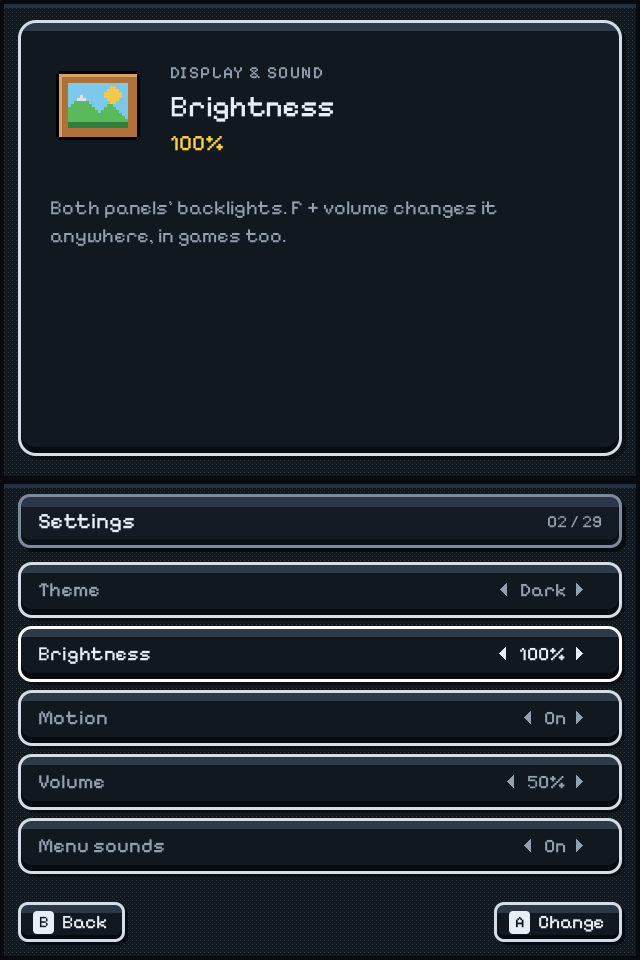
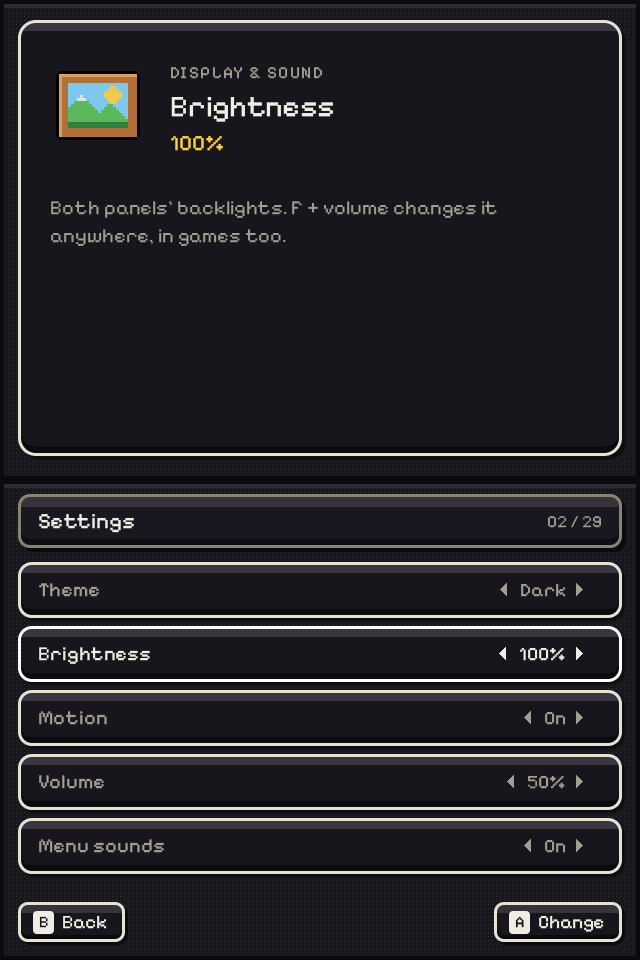
The console the cartridge goes into is the back of a DSi-style clamshell, as pixel art
On the ready screen and in the boot animation the cartridge went into a plain rounded box. tools/make-console.py
draws the lower half's back in the theme's colours, dark and light, at both panel scales: the hinge barrel with
the camera lens in its middle knuckle, L and R at its ends, the card slot's plate (the UI's mouth and power light
sit in it where they were), the stylus in its slot, the wrist strap's eyelet, a screw in each corner. The engine
draws it under the insert animation (the box stays as the fallback), the splash's bottom layer has it; the
README's gif and the docs' screenshots are regenerated.

Claude-Session: https://claude.ai/code/session_018qUWsBXHrSiCKfAW17r6vD

diff --git a/tools/make-console.py b/tools/make-console.py
@@ -1,0 +1,96 @@
+#!/usr/bin/env python3
+"""The console the cartridge goes into, on the ready screen and in the boot animation: the back of a DSi-style
+clamshell's lower half, seen from behind, drawn as pixel art in the theme's colours. The hinge barrel runs along
+the top with the camera lens in its middle knuckle, L and R sit at its ends, the game card slot is centred in
+the body under the hinge (its mouth is drawn by the UI, at the same place as before: 180 x 28 at x 230, 16 px
+under the body's top), the stylus slot is on the right, the wrist strap's eyelet bottom-left, a screw in each
+lower corner, the power light's bezel to the right of the slot.
+
+Drawn at 1x on a 340 x 136 grid (CSS px of a 640 x 480 panel; the body's top is at y 26, under the hinge) and
+scaled by whole numbers: x2 is the source, then cut to 1x and 1.6x like the rest of the theme's pictures.
+
+    tools/make-console.py <out dir>        writes console-{dark,light}@{1x,1.6x}.png"""
+import sys
+from PIL import Image, ImageDraw
+
+W, H = 340, 136
+BODY_TOP = 26
+
+THEMES = {
+    # the theme's panel colours (RndsUI.cpp after tools/banana-palette.sh): band, body, low, edge, blackish, muted
+    "dark": dict(band=(0x3a, 0x35, 0x40), body=(0x17, 0x16, 0x1c), low=(0x0b, 0x0a, 0x0d), edge=(0xe8, 0xe2, 0xd3),
+                 black=(0x07, 0x06, 0x09), muted=(0xa3, 0x9d, 0x8e), hinge=(0x2a, 0x27, 0x2f), hingeHi=(0x4a, 0x45, 0x52),
+                 lens=(0x10, 0x18, 0x28), lensHi=(0x7e, 0xa8, 0xd0), button=(0x2e, 0x2b, 0x33), buttonHi=(0x4a, 0x45, 0x52)),
+    "light": dict(band=(0xff, 0xff, 0xff), body=(0xf6, 0xf2, 0xea), low=(0xd8, 0xd0, 0xc0), edge=(0x3a, 0x34, 0x2c),
+                  black=(0x2a, 0x26, 0x20), muted=(0x7a, 0x72, 0x62), hinge=(0xe3, 0xdc, 0xcd), hingeHi=(0xff, 0xff, 0xff),
+                  lens=(0x1d, 0x27, 0x3a), lensHi=(0x9e, 0xc8, 0xf0), button=(0xeb, 0xe5, 0xd9), buttonHi=(0xff, 0xff, 0xff)),
+}
+
+
+def rounded(d, box, r, fill, outline=None, width=0):
+    d.rounded_rectangle(box, radius=r, fill=fill, outline=outline, width=width)
+
+
+def console(t):
+    im = Image.new("RGBA", (W, H), (0, 0, 0, 0))
+    d = ImageDraw.Draw(im)
+    E, B = t["edge"], t["body"]
+
+    # the body: the lower shell's back, rounded, with the theme's band along the top and the low shadow at the bottom
+    rounded(d, (0, BODY_TOP, W - 1, H - 1), 18, B, E, 3)
+    d.rectangle((3, BODY_TOP + 3, W - 4, BODY_TOP + 10), fill=t["band"])
+    d.rectangle((3, H - 9, W - 4, H - 4), fill=t["low"])
+    # the band's corners follow the outline
+    for x in (3, W - 4):
+        d.point((x, BODY_TOP + 3), fill=E)
+
+    # the hinge barrel: three knuckles across the top, the middle one with the camera lens
+    hy0, hy1 = 0, BODY_TOP + 6
+    for (x0, x1) in ((28, 120), (134, 206), (220, 312)):
+        rounded(d, (x0, hy0, x1, hy1), 9, t["hinge"], E, 3)
+        d.rectangle((x0 + 3, hy0 + 3, x1 - 3, hy0 + 6), fill=t["hingeHi"])      # the light along the top
+        d.rectangle((x0 + 3, hy1 - 7, x1 - 3, hy1 - 3), fill=t["low"])          # the shadow under
+    # the lens, in the middle knuckle
+    cx, cy = 170, (hy0 + hy1) // 2
+    d.ellipse((cx - 9, cy - 9, cx + 9, cy + 9), fill=E)
+    d.ellipse((cx - 7, cy - 7, cx + 7, cy + 7), fill=t["lens"])
+    d.rectangle((cx - 4, cy - 5, cx - 2, cy - 3), fill=t["lensHi"])
+    # the microphone hole beside it
+    d.rectangle((cx + 16, cy - 1, cx + 17, cy), fill=E)
+
+    # L and R: the shoulder buttons at the hinge's ends, a little below it
+    for (x0, x1, label) in ((2, 26, "L"), (W - 27, W - 3, "R")):
+        rounded(d, (x0, 8, x1, BODY_TOP + 14), 6, t["button"], E, 3)
+        d.rectangle((x0 + 3, 11, x1 - 3, 13), fill=t["buttonHi"])
+
+    # the card slot's surround: a raised plate the UI's mouth sits in (the mouth itself: 180 x 28 at 230 - 150 = 80,
+    # 16 under the body's top), with the label's embossed line under it
+    sx0, sy0 = 80 - 8, BODY_TOP + 16 - 8
+    rounded(d, (sx0, sy0, sx0 + 180 + 16 - 1, sy0 + 28 + 16 - 1), 8, t["band"], E, 3)
+    d.rectangle((sx0 + 3, sy0 + 28 + 10, sx0 + 180 + 12, sy0 + 28 + 12), fill=t["low"])
+    # the power light's bezel (the UI paints the light itself at 446 - 150 = 296, mouth + 8)
+    d.rectangle((296 - 2, BODY_TOP + 16 + 8 - 2, 296 + 14 + 1, BODY_TOP + 16 + 8 + 10 + 1), fill=E)
+
+    # the stylus, in its slot on the right: a long thin rounded bar with a grip line
+    rounded(d, (W - 20, BODY_TOP + 44, W - 12, H - 24), 3, t["muted"], E, 2)
+    d.rectangle((W - 18, BODY_TOP + 56, W - 14, BODY_TOP + 57), fill=E)
+
+    # the wrist strap's eyelet, bottom-left; a screw in each lower corner
+    rounded(d, (14, H - 34, 34, H - 20), 4, t["low"], E, 2)
+    d.rectangle((20, H - 29, 28, H - 25), fill=t["black"])
+    for x in (W - 30, 44):
+        d.ellipse((x - 5, H - 27, x + 5, H - 17), fill=t["low"], outline=E, width=2)
+        d.rectangle((x - 2, H - 22, x + 2, H - 22), fill=E)
+
+    # the model line, embossed under the slot: three short dashes (no words)
+    for i in range(3):
+        d.rectangle((140 + i * 22, H - 46, 150 + i * 22, H - 45), fill=t["low"])
+    return im
+
+
+out = sys.argv[1]
+for name, t in THEMES.items():
+    im = console(t)
+    im.save(f"{out}/console-{name}@1x.png")
+    im.resize((int(W * 1.6), int(H * 1.6)), Image.NEAREST).save(f"{out}/console-{name}@1.6x.png")
+print("console pictures written to", out)

diff --git a/ui/rnds/RndsUI.cpp b/ui/rnds/RndsUI.cpp
@@ -208,6 +208,8 @@ namespace rnds
 		std::shared_ptr<Font> R, M;
 		std::shared_ptr<const Bitmap> shell;	// game_slot.png (shared with the cartridge jobs, not copied into each)
 		Bitmap logo, wifi, batt;	// pre-rendered at this scale
+		Bitmap consoleDark, consoleLight;	// Banana: the console the cartridge goes into (tools/make-console.py), per theme
+		bool lightTheme = false;
 
 		std::map<std::string, CacheEntry> cache;
 		uint64_t frame = 1;
@@ -257,7 +259,8 @@ namespace rnds
 
 		void setPalette(const std::string& variant)
 		{
-			P = variant == "light" ? lightPal() : darkPal();
+			lightTheme = variant == "light";
+			P = lightTheme ? lightPal() : darkPal();
 			INK = P.ink; MUTED = P.muted; LINE = P.line; EDGE = P.edge; NAVY = P.navy; RED = P.red;
 			SHADE40 = P.shade40; SHADE45 = P.shade45; SHADE35 = P.shade35; BLACKISH = P.blackish;
 		}
@@ -377,6 +380,8 @@ namespace rnds
 			logo = loadPng("logo" + sfx);
 			wifi = loadPng("wifi" + sfx);
 			batt = loadPng("battery" + sfx);
+			consoleDark = loadPng("console-dark" + sfx);
+			consoleLight = loadPng("console-light" + sfx);
 		}
 
 		// ---- boxes ----
@@ -1765,7 +1770,10 @@ namespace rnds
 			double t = now - launchT0;
 			// the console under it: a face with the slot's mouth and a power light
 			float mouthY = ry + 170, clipY = mouthY + 9;
-			drawBox(heroBox(), 150, ry + 154, 340, 110);
+			// Banana: the back of the console as pixel art (its body's top where the box's was, the hinge above it)
+			const Bitmap& console = lightTheme ? consoleLight : consoleDark;
+			if (!console.empty()) drawSprite(still(lightTheme ? "console-light" : "console-dark", console, false), 150, ry + 154 - 26);
+			else drawBox(heroBox(), 150, ry + 154, 340, 110);
 			drawBox(slotMouthBox(), 230, mouthY, 180, 28);
 			bool clicked = t >= INS_LIFT + INS_SLIDE;
 			Color led = clicked ? Color::hex(0x3ce07a) : Color::hex(0x7a2a30);

diff --git a/README.md b/README.md
@@ -19,10 +19,10 @@ saves, settings) goes on an exFAT partition any computer can open.
 
 | | |
 |---|---|
-| **The menu** | ROCKNIXDS Pixel, the same engine (imported unchanged from ROCKNIXDS) drawn in software straight onto both panels by `banana-ui`: the system shelf, DS cartridges with their label art, box covers, play stats, the cartridge sliding into the console. Dark and light. Banana's mark is the BananaUI bunch redrawn as pixel art in the theme's icon style. |
+| **The menu** | ROCKNIXDS Pixel, the same engine (imported unchanged from ROCKNIXDS) drawn in software straight onto both panels by `banana-ui`: the system shelf, DS cartridges with their label art, box covers, play stats, the cartridge sliding into the console. Dark and light. Banana's mark is the BananaUI bunch redrawn as pixel art in the theme's icon style, and Banana's palette is over the theme's (`tools/banana-palette.sh`): warm neutrals in place of the blue-greys, banana yellow in place of the blue accents. |
 | **First boot** | A setup on the first start after the installation: Wi-Fi, the time zone, a RetroAchievements account (DraStic and RetroArch unlock with it) and a ScreenScraper account (for the art, when it is fetched). Skippable, and back any time from Settings > System. |
 | **Settings** | Start in the menu: theme, brightness, motion, sounds, clock, the boot animation, sleep when idle, the lid, the LEDs, the DS renderer, shader and 3D resolution, Wi-Fi (the networks around, the password on an on-screen keyboard), file sharing, the time zone, About, restart and shut down. In the same look, applied at once. |
-| **Boot animation** | From banana-ui's first frame, while the library loads on another thread: the bunch drops onto the top panel and BANANAOS types itself in (BANANA in banana yellow, OS in white); on the bottom panel the BANANA cartridge goes into the console with the menu's own insert motion, clicks, and the power light turns green. Then it dissolves into the menu. |
+| **Boot animation** | From banana-ui's first frame, while the library loads on another thread: the bunch drops onto the top panel and BANANAOS types itself in (BANANA in banana yellow, OS in white); on the bottom panel the BANANA cartridge goes into the console (the back of a DSi-style clamshell's lower half as pixel art: the hinge with its camera, L and R, the card slot, the stylus) with the menu's own insert motion, clicks, and the power light turns green. Then it dissolves into the menu. |
 | **Light** | The menu draws a frame in well under a millisecond when only one screen changes, skips any screen whose content didn't change, and sleeps in `poll()` between frames. While a game runs it closes the display, the input devices and the sound device: the game has the handheld to itself. |
 | **Sleep** | Close the lid and it is asleep in a moment: the game paused where it was, the card flushed, the handheld suspended to RAM. Open it and the game carries on as the panels light up: the game and the menu are resumed first, Wi-Fi and the rest catch up behind them, and the devices resume in parallel. Woken with the lid shut (the power button in a bag) it goes straight back to sleep. While asleep it checks the battery every 4 hours and shuts down cleanly (the game saves first) before it could run flat. Two idle minutes in the menu dim the panels, ten put it to sleep; hold power to shut down. The menu warns at 20%, 10% and 5%. (`bananad`, tested in `system/bananad/tests/sleep-test.sh`) |
 | **Updates** | A new version is one file dropped in `banana/updates` on the card (over Wi-Fi, with file sharing) and Settings > System > Update: it is written to the card's second system slot, checked, and runs from the next restart; the version before stays one restart away (`Previous version`). |
